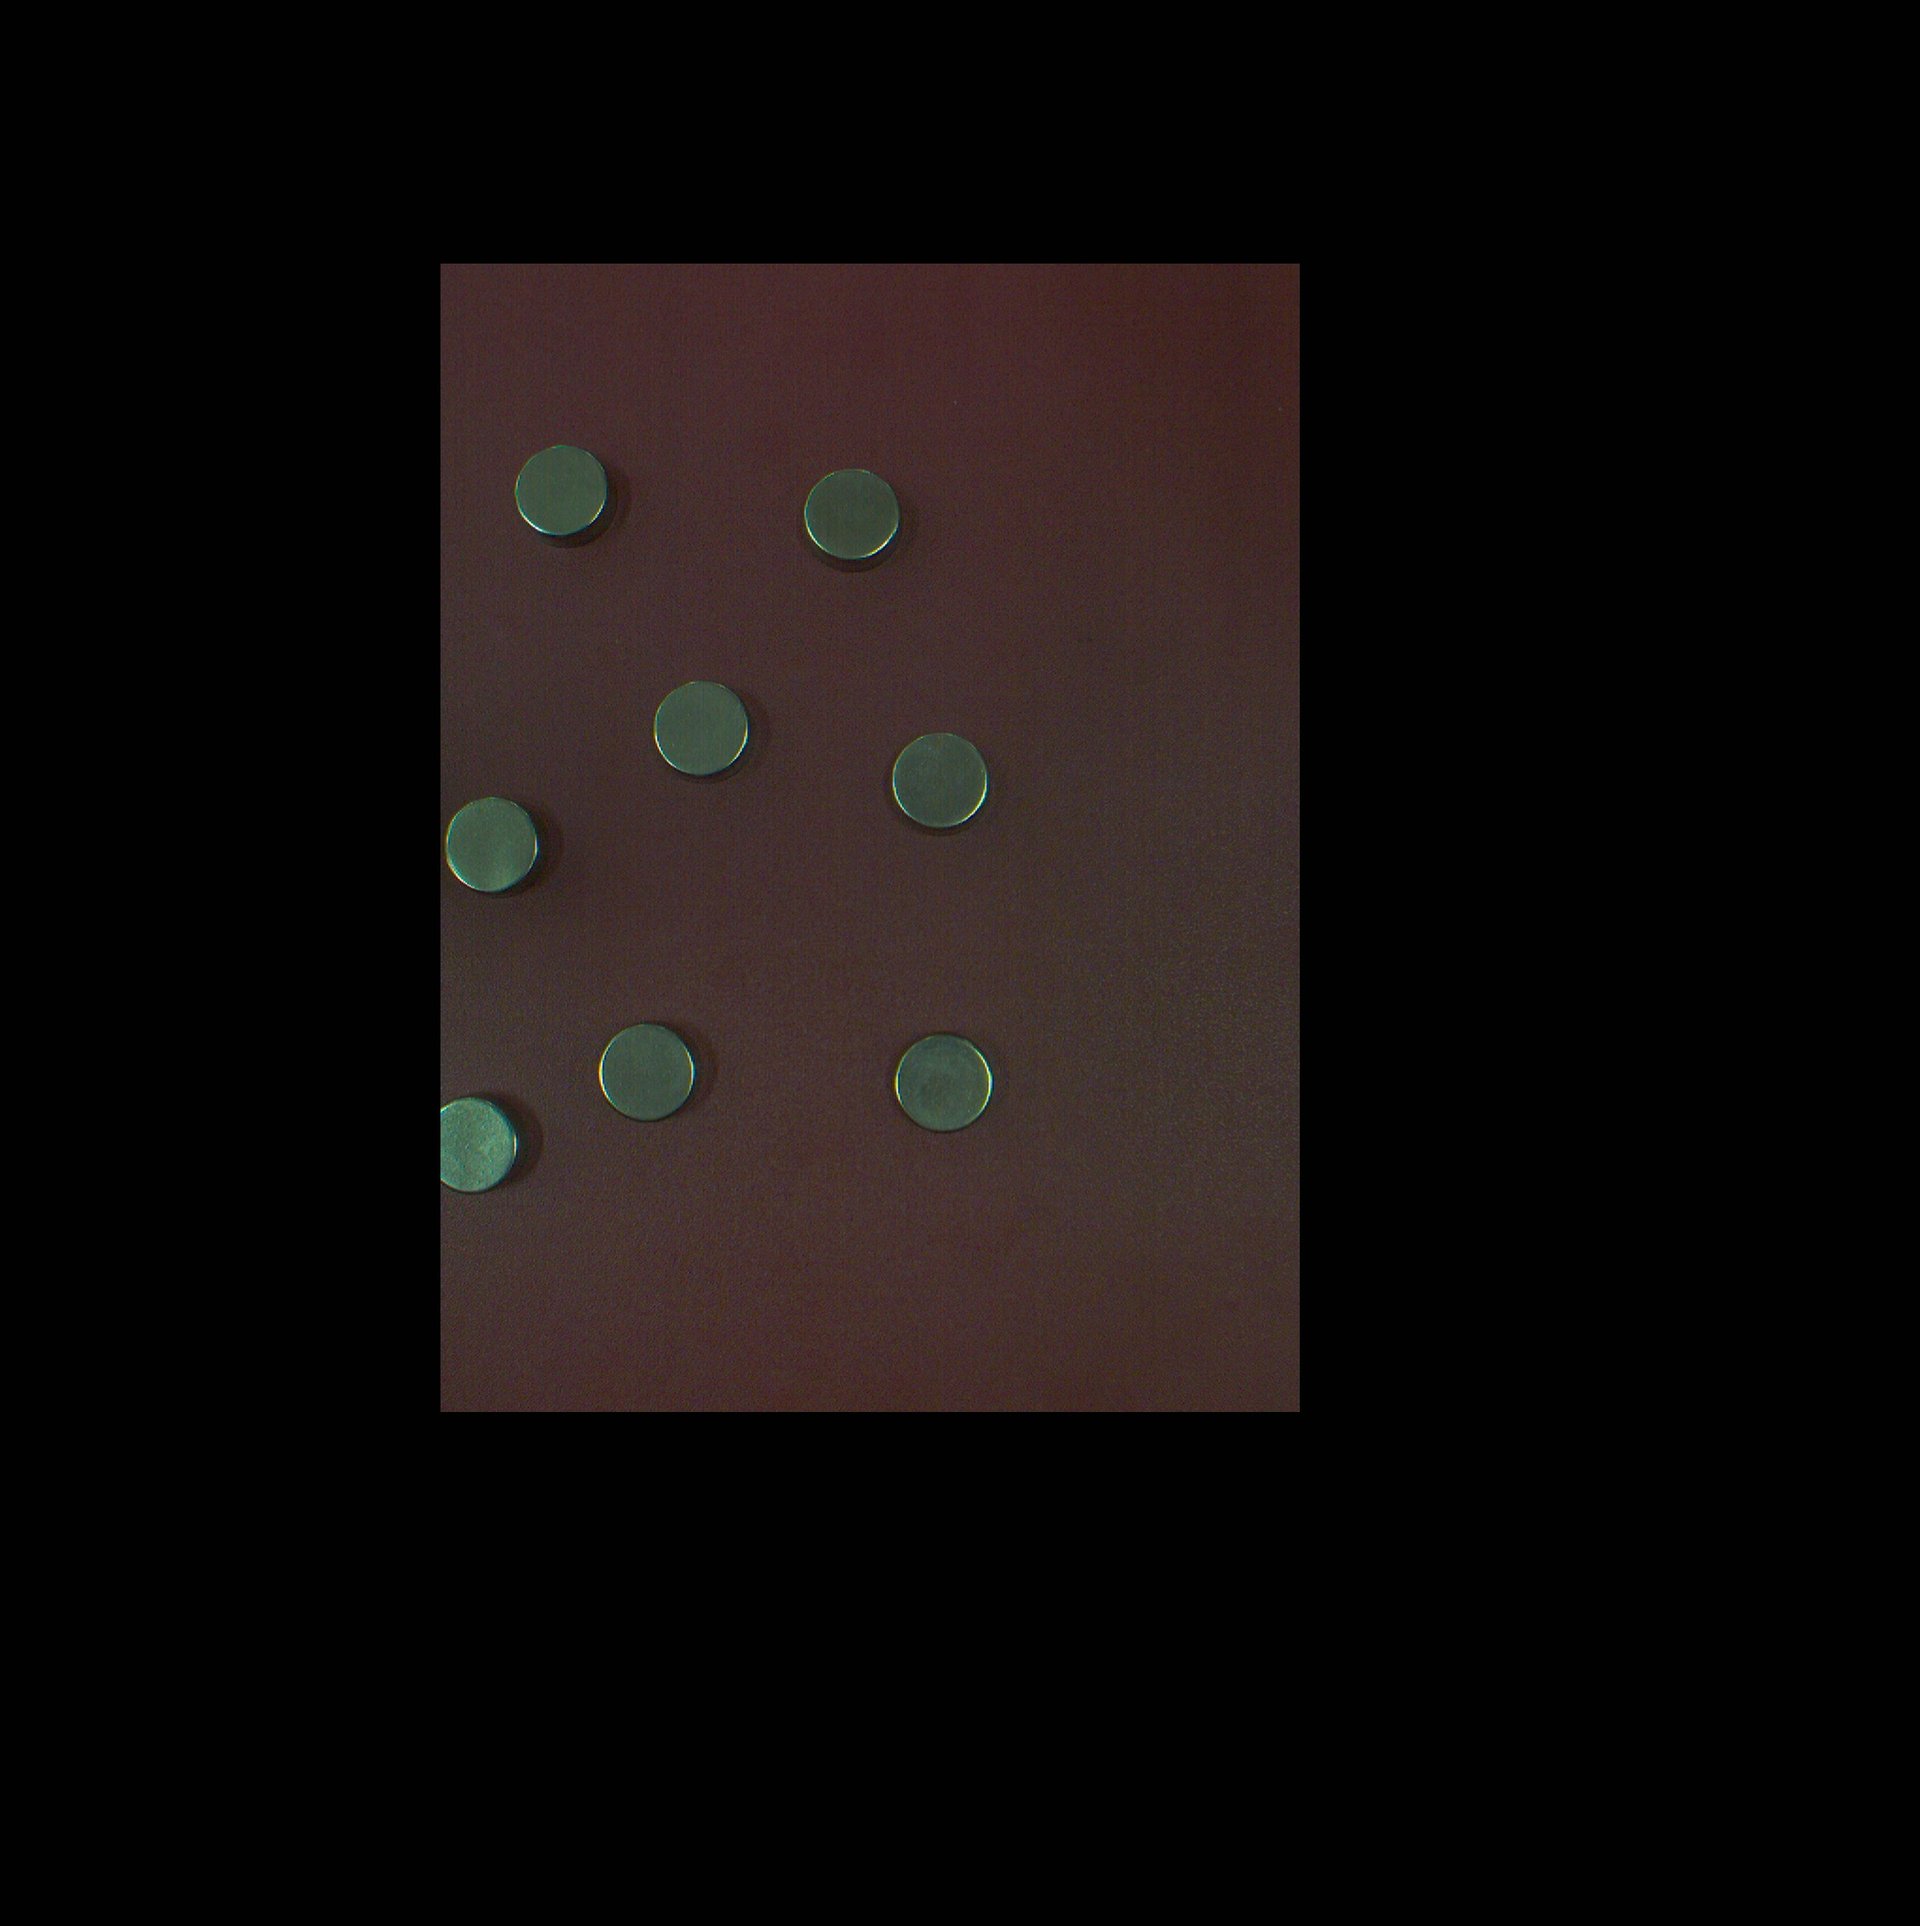
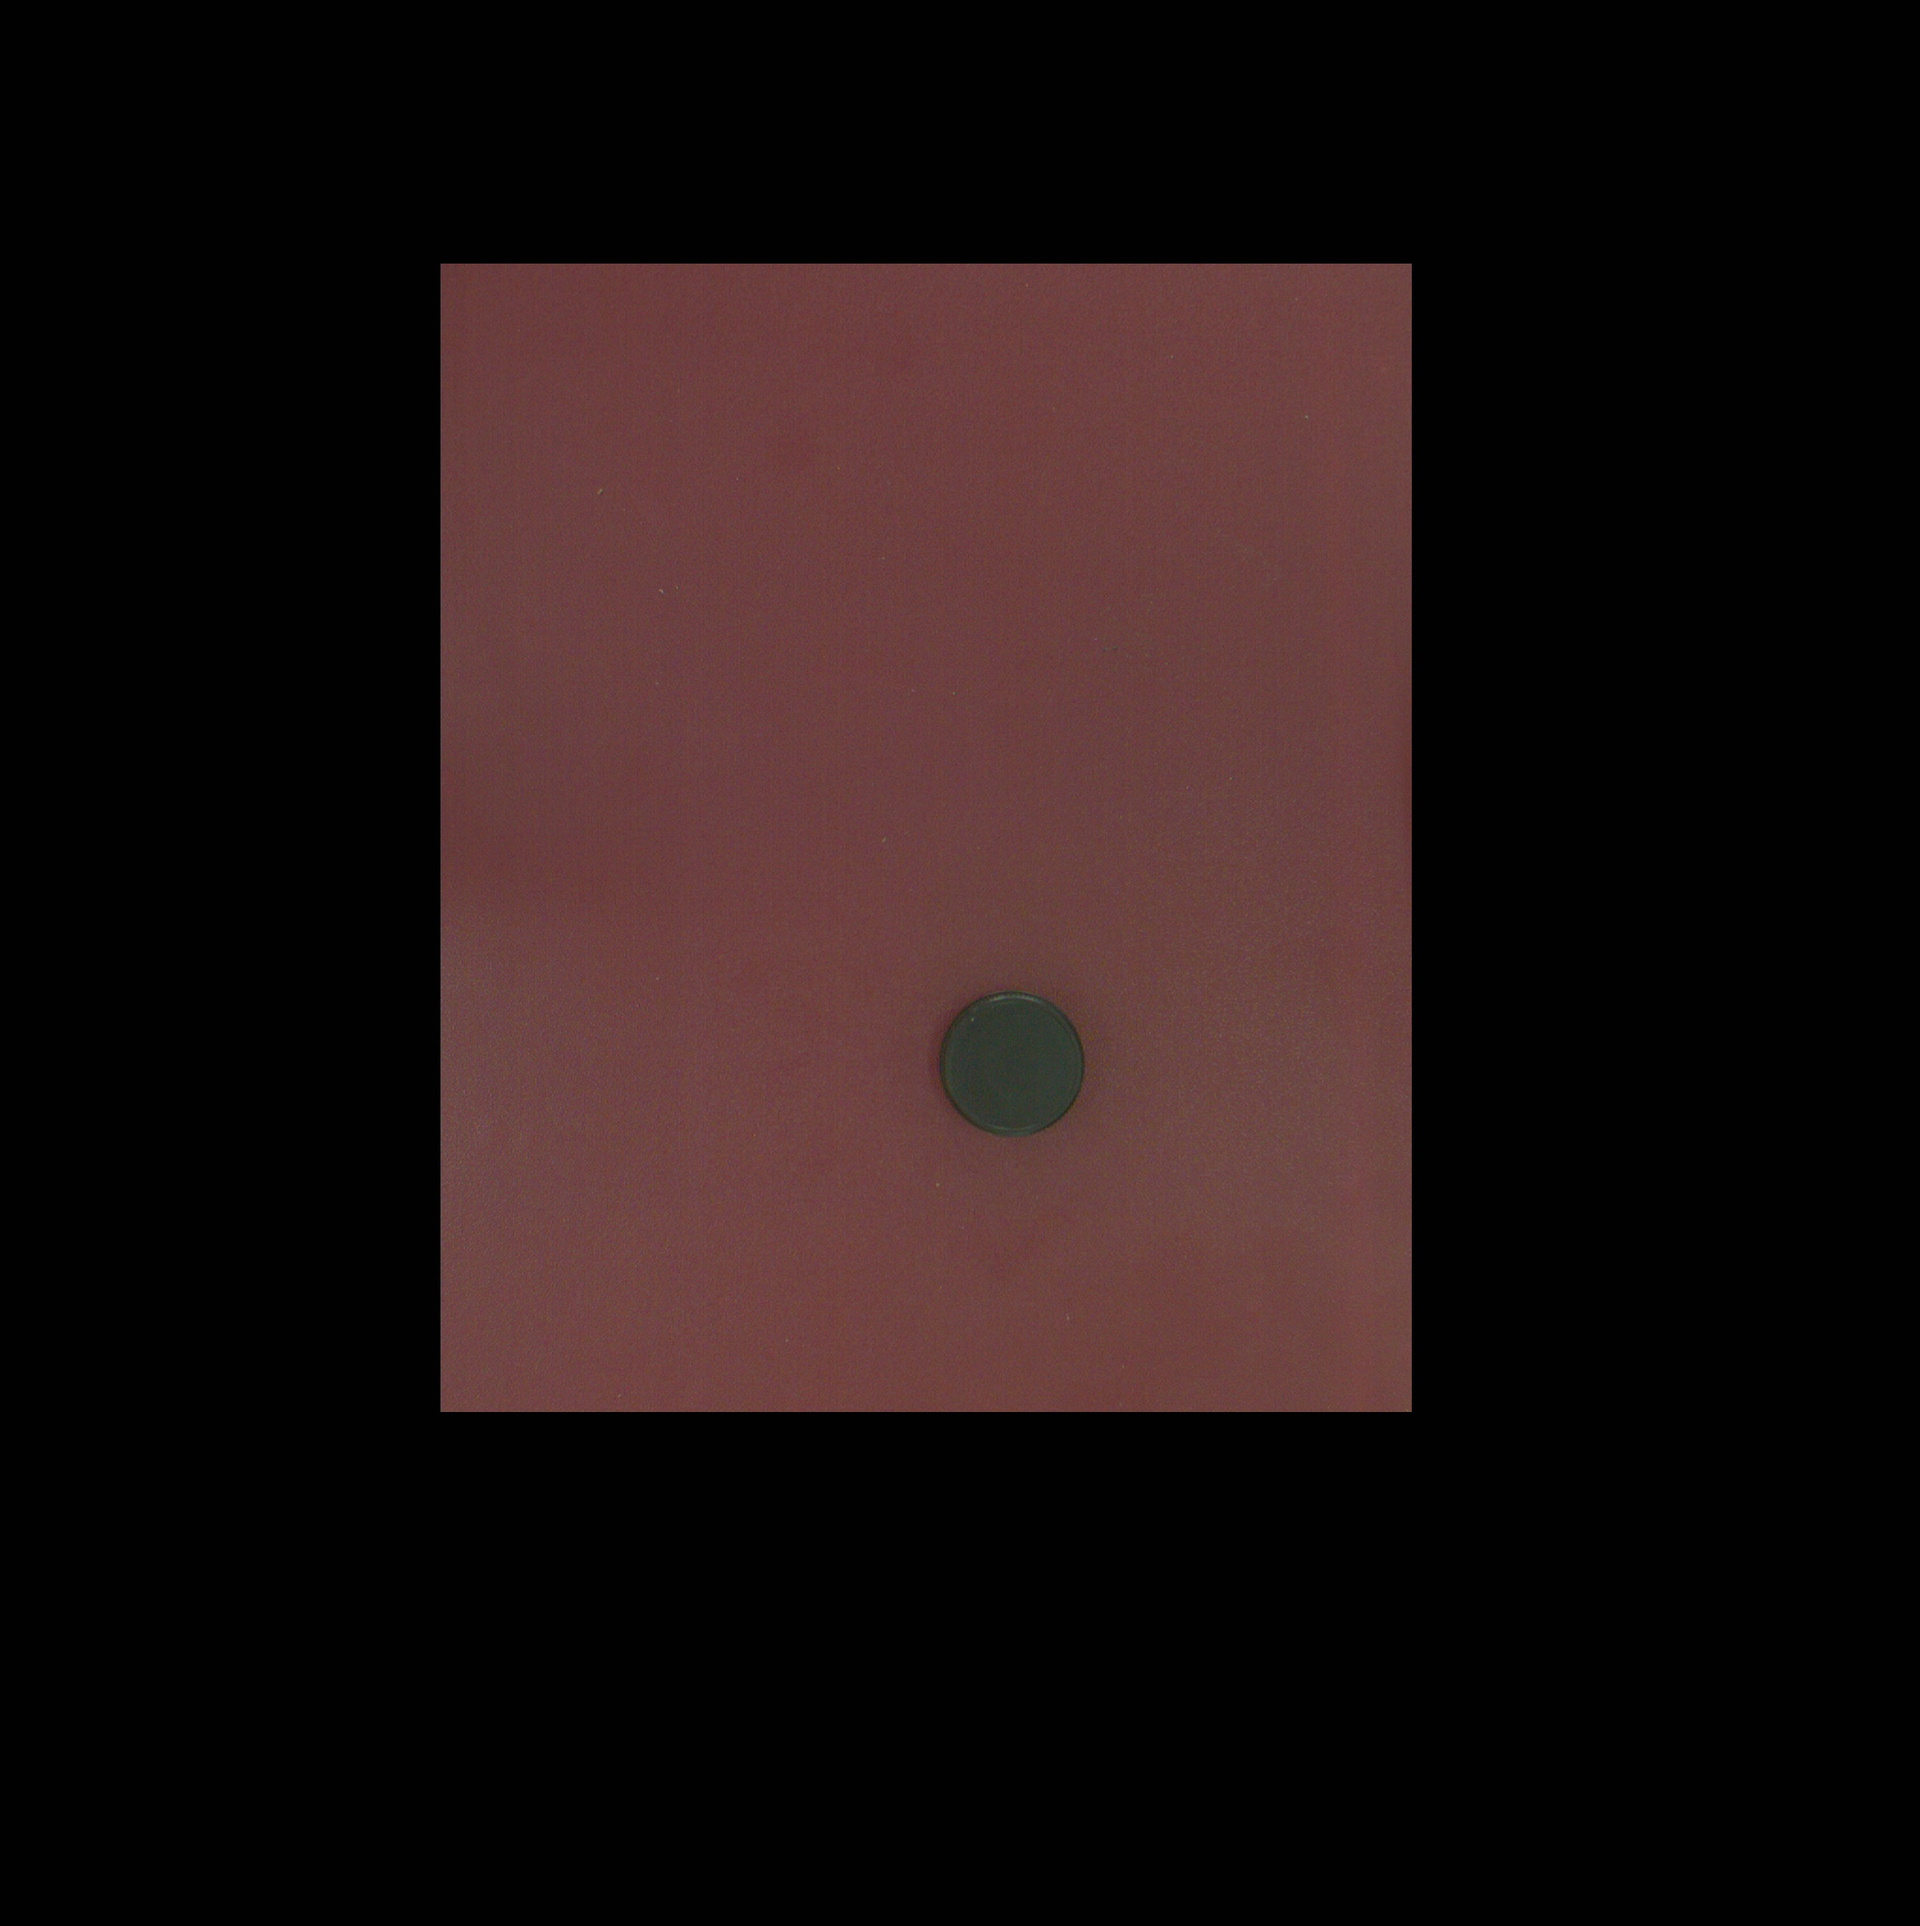
ud

Changed region(s): [[0.2162, 0.1232, 0.7412, 0.739]]

diff --git a/control_rb.py b/control_rb.py
@@ -14,10 +14,10 @@ class Control_robot():
             print("connect")
             #Clean Command Queued
             dType.SetQueuedCmdClear(self.api)
-            dType.SetPTPCoordinateParams(self.api,500,500,500,500,500)
+            dType.SetPTPCoordinateParams(self.api,500,500,500,500,0)
             dType.SetPTPCommonParams(self.api, 500, 500, isQueued = 0)
             dType.SetHOMEParams(self.api, 250, 0, 50, 0, isQueued = 0)
-            dType.SetPTPJointParams(self.api, 50, 50, 50, 50, 50, 50, 50, 50, isQueued = 0)
+            dType.SetPTPJointParams(self.api, 500, 500, 500, 500, 500, 500, 500, 500, isQueued = 0)
             dType.SetHOMECmd(self.api, temp = 0, isQueued = 0)
             return True
         else: 
@@ -27,16 +27,22 @@ class Control_robot():
             if x_item<310:
                 print("x_item, y_item",x_item,y_item)
                 # for y_item in y:
-                dType.SetPTPCmd(self.api,  dType.PTPMode.PTPMOVLXYZMode, x_item,y_item,30,10, isQueued=1)
-                dType.SetWAITCmd(self.api, 200, isQueued=1)
-                dType.SetPTPCmd(self.api,  dType.PTPMode.PTPMOVLXYZMode, x_item,y_item,-30,10, isQueued=1)
+                
+                # dType.SetPTPCoordinateParams(self.api,500,500,500,500,0)
+                # dType.SetPTPCommonParams(self.api, 500, 500, isQueued = 0)
+                dType.SetPTPCmd(self.api,  dType.PTPMode.PTPMOVJXYZMode, x_item,y_item,30,10, isQueued=1)
+                dType.SetWAITCmd(self.api, 500, isQueued=1)
+                dType.SetPTPCmd(self.api,  dType.PTPMode.PTPMOVJXYZMode, x_item,y_item,-25,10, isQueued=1)
                 # dType.SetWAITCmd(api, 200, isQueued=1)
                 dType.SetEndEffectorSuctionCup(self.api, True,  True, isQueued=1)
                 dType.SetWAITCmd(self.api, 500, isQueued=1)
-                dType.SetPTPCmd(self.api,  dType.PTPMode.PTPMOVLXYZMode, x_item,y_item,30,10, isQueued=1)
-                dType.SetPTPCmd(self.api,  dType.PTPMode.PTPMOVLXYZMode, 51,-247,30,10, isQueued=1)
-                dType.SetWAITCmd(self.api, 100, isQueued=1)
+                dType.SetPTPCmd(self.api,  dType.PTPMode.PTPMOVJXYZMode, x_item,y_item,30,10, isQueued=1)
+                dType.SetPTPCmd(self.api,  dType.PTPMode.PTPMOVJXYZMode, 51,-247,30,10, isQueued=1)
+                # dType.SetWAITCmd(self.api, 500, isQueued=1)
                 dType.SetEndEffectorSuctionCup(self.api, True,  False, isQueued=1)
+                dType.SetWAITCmd(self.api, 500, isQueued=1)
+    def home(self):
+        dType.SetPTPCmd(self.api,  dType.PTPMode.PTPMOVJXYZMode, 0,-250,50,10, isQueued=1)
     def stop(self):
         dType.DisconnectDobot(self.api)
         print("stop")

diff --git a/utils.py b/utils.py
@@ -46,6 +46,7 @@ def find_line_circles(circles):
 def find_circles_in_small_img(img,w_s, w_en):
     logger.info("start predict")
     output = predictor_circles(img)
+    logger.info("end predict")
     boxes = output["instances"].to("cpu").pred_boxes if output["instances"].to("cpu").has("pred_boxes") else None
     if boxes is not None:
         boxes = convert_boxes(boxes)
@@ -85,24 +86,25 @@ def convert_to_x_y_robot(x,y):
 
 def find_total_circles(img):
     h,w= img.shape[:2]
-    img1 = np.ones_like(img)
-    img2 = np.ones_like(img)
+    # img1 = np.ones_like(img)
+    # img2 = np.ones_like(img)
 
-    img1[:,:int(5.2*w/10)] = img[:,:int(5.2*w/10)]
-    img2[:,int(4.8*w/10):] = img[:,int(4.8*w/10):]
-    circles1 = find_circles_in_small_img(img1, 0, int(5.2*w/10))
-    circles2 = find_circles_in_small_img(img2,int(4.8*w/10),w )
-    circles = circles1 + circles2
-    new_circles = deepcopy(circles)
-    for circle1 in  circles1:
-        for circle2 in circles2:
-            if ((circle2[0]-circle1[0])**2+(circle2[1]-circle1[1])**2)**(1/2) < 0.8*max(circle2[2],circle1[2]):
-                if circle2[2] < circle1[2]:
-                    new_circles.remove(circle2)
-                else:
-                    new_circles.remove(circle1)
-
-    circles = sorted(new_circles, key=lambda b: b[1])
+    # img1[:,:int(5.2*w/10)] = img[:,:int(5.2*w/10)]
+    # img2[:,int(4.8*w/10):] = img[:,int(4.8*w/10):]
+    # circles1 = find_circles_in_small_img(img1, 0, int(5.2*w/10))
+    # circles2 = find_circles_in_small_img(img2,int(4.8*w/10),w )
+    # circles = circles1 + circles2
+    # new_circles = deepcopy(circles)
+    # for circle1 in  circles1:
+    #     for circle2 in circles2:
+    #         if ((circle2[0]-circle1[0])**2+(circle2[1]-circle1[1])**2)**(1/2) < 0.8*max(circle2[2],circle1[2]):
+    #             if circle2[2] < circle1[2]:
+    #                 new_circles.remove(circle2)
+    #             else:
+    #                 new_circles.remove(circle1)
+    circles = find_circles_in_small_img(img,0,w)
+    # circles = sorted(new_circles, key=lambda b: b[1])
+    circles = sorted(circles, key=lambda b: b[1])
     group_lines = find_line_circles(circles)
     new_circle = []
     count = 0

diff --git a/main.py b/main.py
@@ -105,6 +105,7 @@ class MainWindow:
         self.uic.label_time_1.setText(current_time)
 
     def capture(self):
+        self.control.home()
         camera = pylon.InstantCamera(pylon.TlFactory.GetInstance().CreateFirstDevice())
 
         # Grabing Continusely (video) with minimal delay
@@ -120,9 +121,9 @@ class MainWindow:
                 # Access the image data
                 image = converter.Convert(grabResult)
                 img = image.GetArray()
-                new_img = img[280:1500,468:1381]# cần chỉnh
+                new_img = img[280:1500,468:1500]# cần chỉnh
                 new_img_dt = np.ones_like(img)
-                new_img_dt[280:1500,468:1381] = img[280:1500,468:1381]
+                new_img_dt[280:1500,468:1500] = img[280:1500,468:1500]
                 cv2.imwrite("tmp/new.jpg",new_img_dt)
                 self.new_img_dt = new_img_dt
                 break
